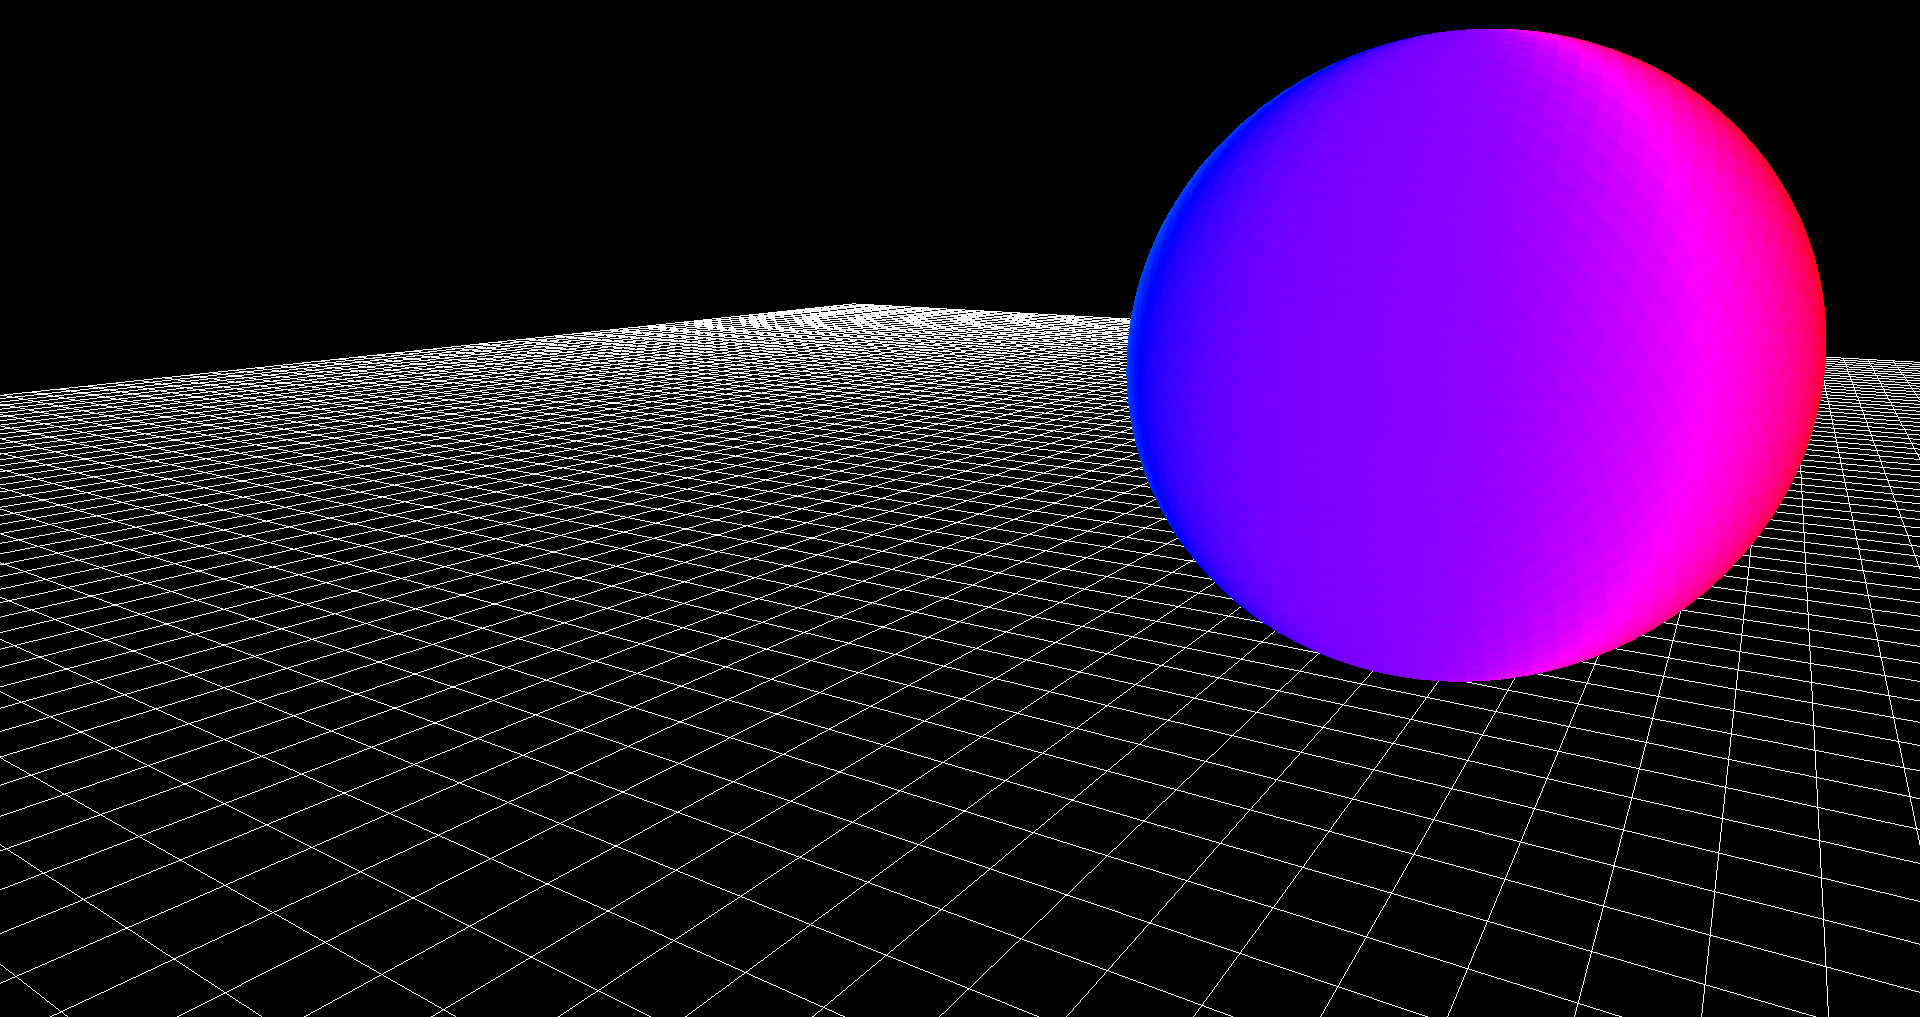
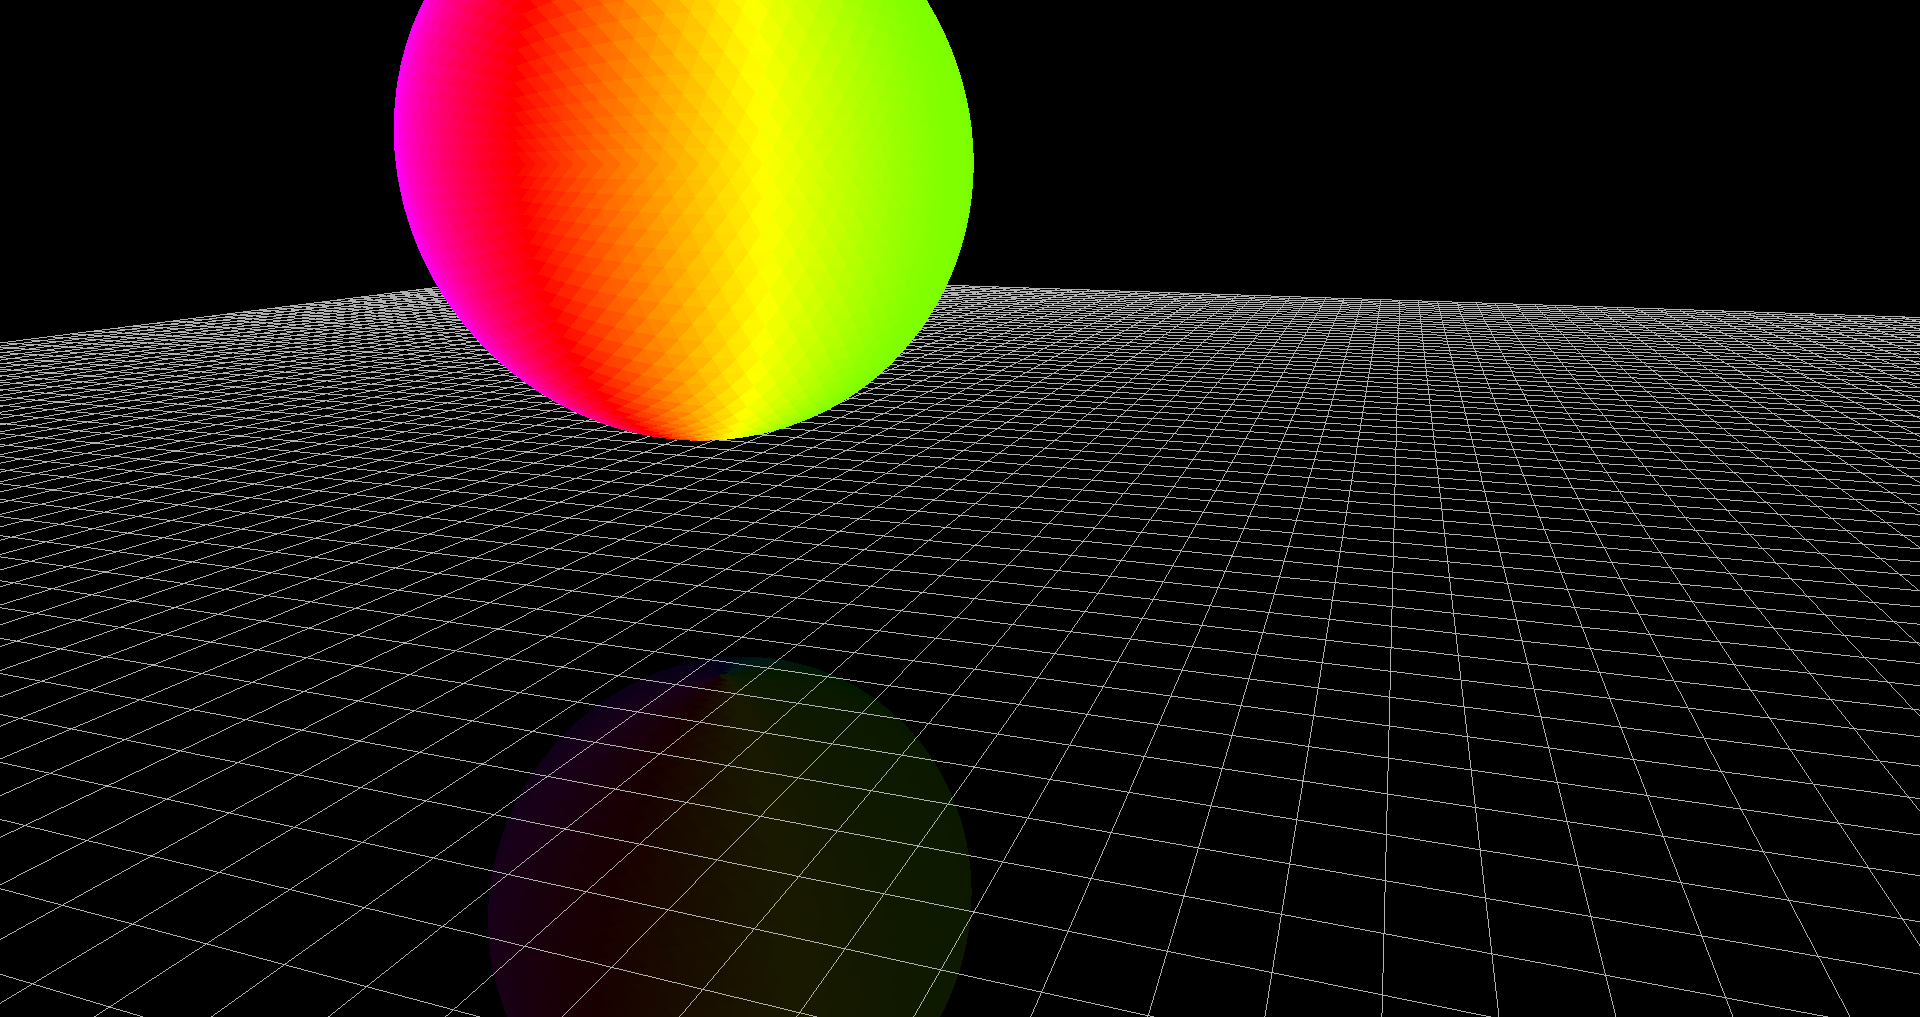
Added the reflection to the sphere

diff --git a/src/grid.cpp b/src/grid.cpp
@@ -16,33 +16,33 @@ void create_grid(GLfloat vertex_buffer[], unsigned num_of_lines, glm::vec2 botto
         vertex_buffer[offset] = bottom_left.x + i * x_spacing;     // X
         vertex_buffer[offset + 1] = bottom_left.y;               // Y
         vertex_buffer[offset + 2] = 0.0f;                // Z
-        vertex_buffer[offset + 3] = 1.0f;                // R
-        vertex_buffer[offset + 4] = 1.0f;                // G
-        vertex_buffer[offset + 5] = 1.0f;                // B
+        vertex_buffer[offset + 3] = 0.7f;                // R
+        vertex_buffer[offset + 4] = 0.7f;                // G
+        vertex_buffer[offset + 5] = 0.7f;                // B
 
         // End point
         vertex_buffer[offset + 6] = bottom_left.x + i * x_spacing; // X
         vertex_buffer[offset + 7] = top_right.y;                // Y
         vertex_buffer[offset + 8] = 0.0f;                // Z
-        vertex_buffer[offset + 9] = 1.0f;                // R
-        vertex_buffer[offset + 10] = 1.0f;               // G
-        vertex_buffer[offset + 11] = 1.0f;               // B
+        vertex_buffer[offset + 9] = 0.7f;                // R
+        vertex_buffer[offset + 10] = 0.7f;               // G
+        vertex_buffer[offset + 11] = 0.7f;               // B
 
         // Start point
         vertex_buffer[offset + 12] = bottom_left.x;              // X
         vertex_buffer[offset + 13] = bottom_left.y + i * y_spacing;// Y
         vertex_buffer[offset + 14] = 0.0f;               // Z
-        vertex_buffer[offset + 15] = 1.0f;               // R
-        vertex_buffer[offset + 16] = 1.0f;               // G
-        vertex_buffer[offset + 17] = 1.0f;               // B
+        vertex_buffer[offset + 15] = 0.7f;               // R
+        vertex_buffer[offset + 16] = 0.7f;               // G
+        vertex_buffer[offset + 17] = 0.7f;               // B
 
         // End point
         vertex_buffer[offset + 18] = top_right.x;               // X
         vertex_buffer[offset + 19] = bottom_left.y + i * y_spacing;// Y
         vertex_buffer[offset + 20] = 0.0f;               // Z
-        vertex_buffer[offset + 21] = 1.0f;               // R
-        vertex_buffer[offset + 22] = 1.0f;               // G
-        vertex_buffer[offset + 23] = 1.0f;               // B
+        vertex_buffer[offset + 21] = 0.7f;               // R
+        vertex_buffer[offset + 22] = 0.7f;               // G
+        vertex_buffer[offset + 23] = 0.7f;               // B
     }
 }
 

diff --git a/src/main.cpp b/src/main.cpp
@@ -87,7 +87,7 @@ int main() {
     GLfloat sphere_vertices[sphere_vertex_count_hint(lod) * ATTR_COUNT];
     GLuint sphere_indices[sphere_index_count_hint(lod)];
     create_sphere(sphere_vertices, sphere_indices, 1.0f, lod);
-    glm::mat4 sphere_model_trans = glm::translate(glm::mat4(1.0f), glm::vec3(1.0f, -1.0f, 1.0f));
+    glm::mat4 sphere_model_trans = glm::translate(glm::mat4(1.0f), glm::vec3(1.0f, -1.0f, 1.5f));
 
     // Static draw because data is written once and used many times.
     glBufferData(GL_ARRAY_BUFFER, sizeof(grid_vertices) + sizeof(sphere_vertices), nullptr, GL_STATIC_DRAW);
@@ -129,6 +129,9 @@ int main() {
 
     glEnable(GL_DEPTH_TEST);
 
+    GLint uniform_color_multiplier = glGetUniformLocation(shader_program, "color_multiplier");
+    glUniform1f(uniform_color_multiplier, 1.0f);
+
     double old_time = glfwGetTime();
     // Main loop
     while (!glfwWindowShouldClose(window)) {
@@ -164,6 +167,14 @@ int main() {
         glUniformMatrix4fv(uniform_model, 1, GL_FALSE, glm::value_ptr(sphere_model_trans));
         glDrawElementsBaseVertex(GL_TRIANGLES, sizeof(sphere_indices) / sizeof(sphere_indices[0]),
                                  GL_UNSIGNED_INT, 0, (sizeof(grid_vertices)) / (ATTR_COUNT * sizeof(GLfloat)));
+        // Draw the sphere reflection
+        glUniform1f(uniform_color_multiplier, 0.1f);
+        glm::mat4 reflection_trans = glm::mat4(1.0f);
+        reflection_trans[2][2] = -1.0f;
+        glUniformMatrix4fv(uniform_model, 1, GL_FALSE, glm::value_ptr(reflection_trans * sphere_model_trans));
+        glDrawElementsBaseVertex(GL_TRIANGLES, sizeof(sphere_indices) / sizeof(sphere_indices[0]),
+                                 GL_UNSIGNED_INT, 0, (sizeof(grid_vertices)) / (ATTR_COUNT * sizeof(GLfloat)));
+        glUniform1f(uniform_color_multiplier, 1.0f);
 
         glfwSwapBuffers(window);
         glfwPollEvents();
@@ -189,9 +200,11 @@ GLuint init_shaders() {
         uniform mat4 view;
         uniform mat4 projection;
 
+        uniform float color_multiplier;
+
         void main() {
             gl_Position = projection * view * model * vec4(position, 1.0);
-            Color = color;
+            Color = color * color_multiplier;
         }
     )glsl";
 
